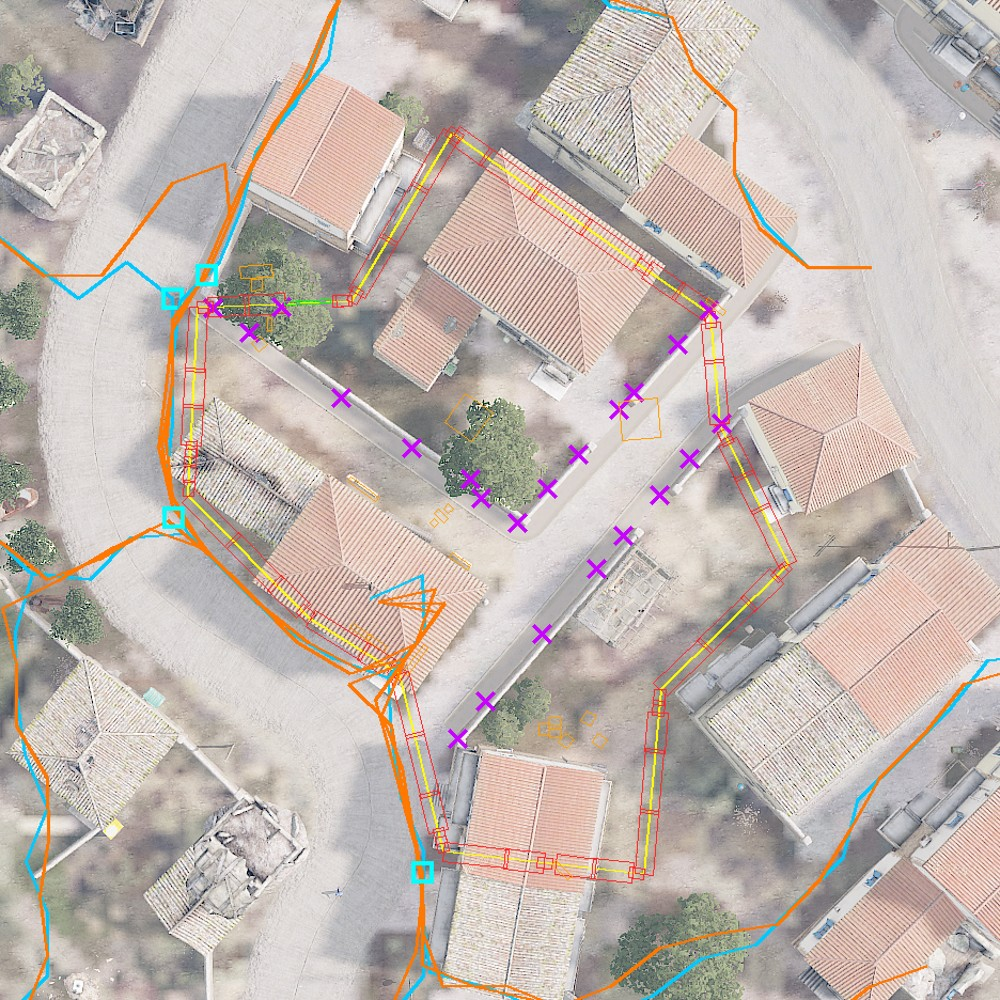
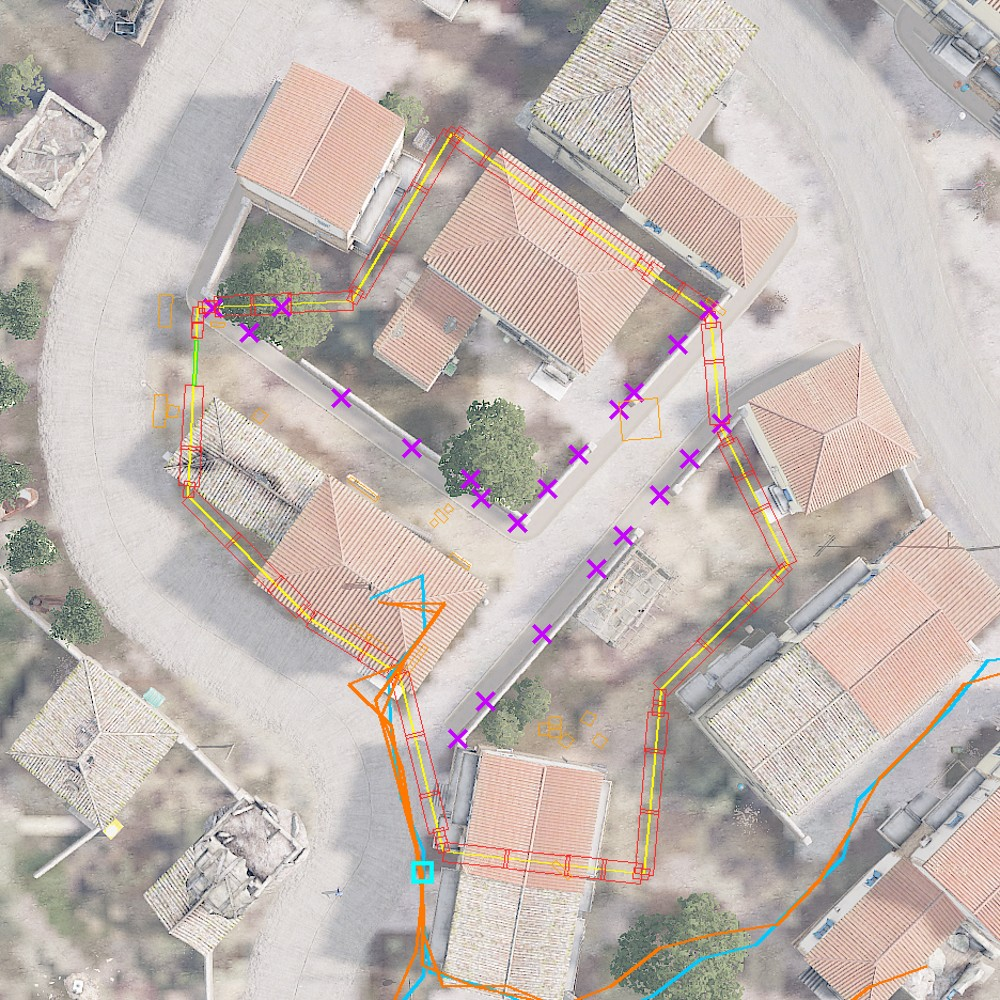
Batch 2 review fixes: Panochori's T3 gate, map gates hidden, the eaves leak, gendarmes outside any gate
- Panochori T3's main gate where the user marked it (west side, by the road),
  the town rebuilt round it; T4's hand-set west gate kept (it's 9.6 m on).
- The block probe logs the map's own gates of any type (GATE lines; Neri's were
  neither WALL nor FENCE): read as walls, so the generator hides them on or inside
  an area. Neri T3's two hidden; the merged towns re-probed for them.
- A building closes the line only where it runs 1 m inside its walls or roofed
  cells (0.6 left a way under a house's eaves at Panochori's west corner).
- The gendarmerie goes 15 m out from the main gate across its wall, on the side
  outside the compound (straight on from the HQ came back inside Charkia's T4,
  its gate on a track's end).

diff --git a/tools/officegen/compound_gen.py b/tools/officegen/compound_gen.py
@@ -7,7 +7,8 @@ Generates a town's occupier compound walls (tools/officegen/COMPOUND_PLAN.md) fr
     - a road crossing an edge is a gate of its width (3.5-8 m); a compound no road crosses gets a 4 m main gate on
       its road-facing edge nearest the HQ's door; gates set by hand (compounds/<world>_gates.txt) replace both;
     - a building on an edge is part of the wall; a door of it opening outside the area is locked in play;
-    - the map's walls and fences along an edge or inside the area are hidden (our wall goes up on the edge's;
+    - the map's walls, fences and gates (the block probe's WALL and GATE lines: a map gate of any type) along an
+      edge or inside the area are hidden (our wall goes up on the edge's;
       the occupier cleared the compound);
     - the rest of every edge is wall: T3 2-high H-barrier (the upper layer 1.4 m up, each pair on the ground) with
       small concrete wall for the remainders; T4+ mostly the tall military wall, small concrete wall for the
@@ -112,7 +113,8 @@ def orient(u):
 
 _PLANS = None
 HINTS = {}
-REAL_IN = 0.6        # How far inside a building's plan or roofed cells the line must run for the building to close it
+REAL_IN = 1.0        # How far inside a building's plan or roofed cells the line must run for the building to close it
+# (0.6 left a way under a house's eaves where the line cut its corner: Panochori, 16 m west of the HQ)
 _FEET = None
 
 

diff --git a/tools/officegen/blocklib.py b/tools/officegen/blocklib.py
@@ -113,7 +113,7 @@ def load(world="Altis"):
         elif what == "BLD":
             doors = [_vec(p) for p in re.findall(r"\[[^\[\]]+\]", f[7])]
             b.buildings.append(Building(f[3], _vec(f[4]), float(f[5]), _vec(f[6]), doors, int(f[8])))
-        elif what == "WALL":
+        elif what in ("WALL", "GATE"):   # a map gate (any type) counts as a wall: hidden like one
             b.walls.append(Thing(f[3], _vec(f[4]), float(f[5]), _vec(f[6])))
         elif what in ("ROCK", "TREE"):
             (b.rocks if what == "ROCK" else b.trees).append(Thing(f[3], _vec(f[4]), float(f[5]), _vec(f[6])))
